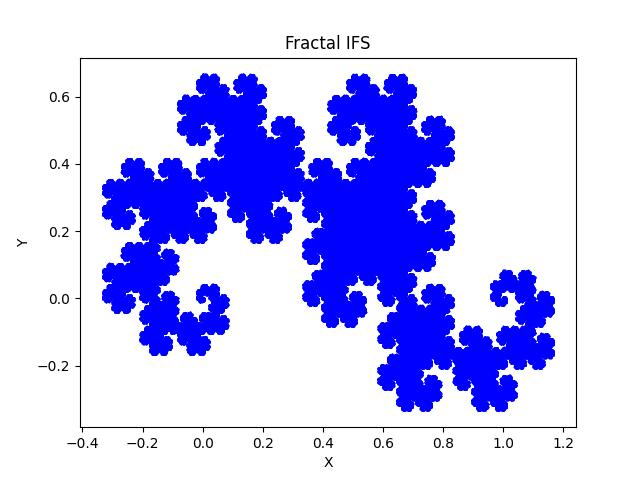
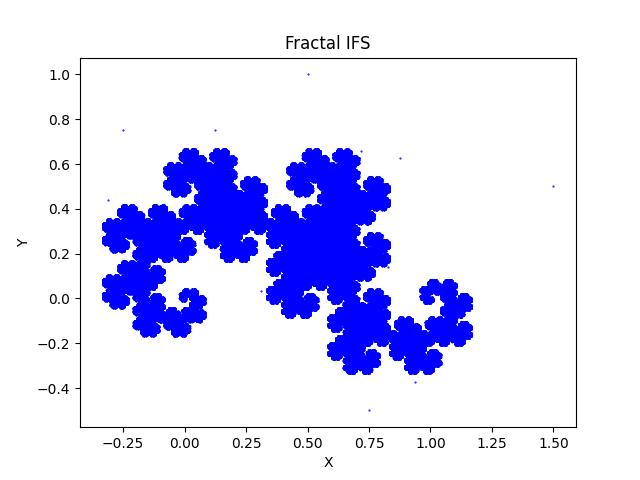
update:Ex1
final

diff --git a/Ex1.py b/Ex1.py
@@ -10,7 +10,7 @@ def f2(x, y):
     return (0.5 * (-x - y) + 1, 0.5 * (x - y))
 
 # Punto inicial
-x, y = 0, 0
+x, y = 0,-1
 
 # Número de iteraciones
 num_iteraciones = 1000000
